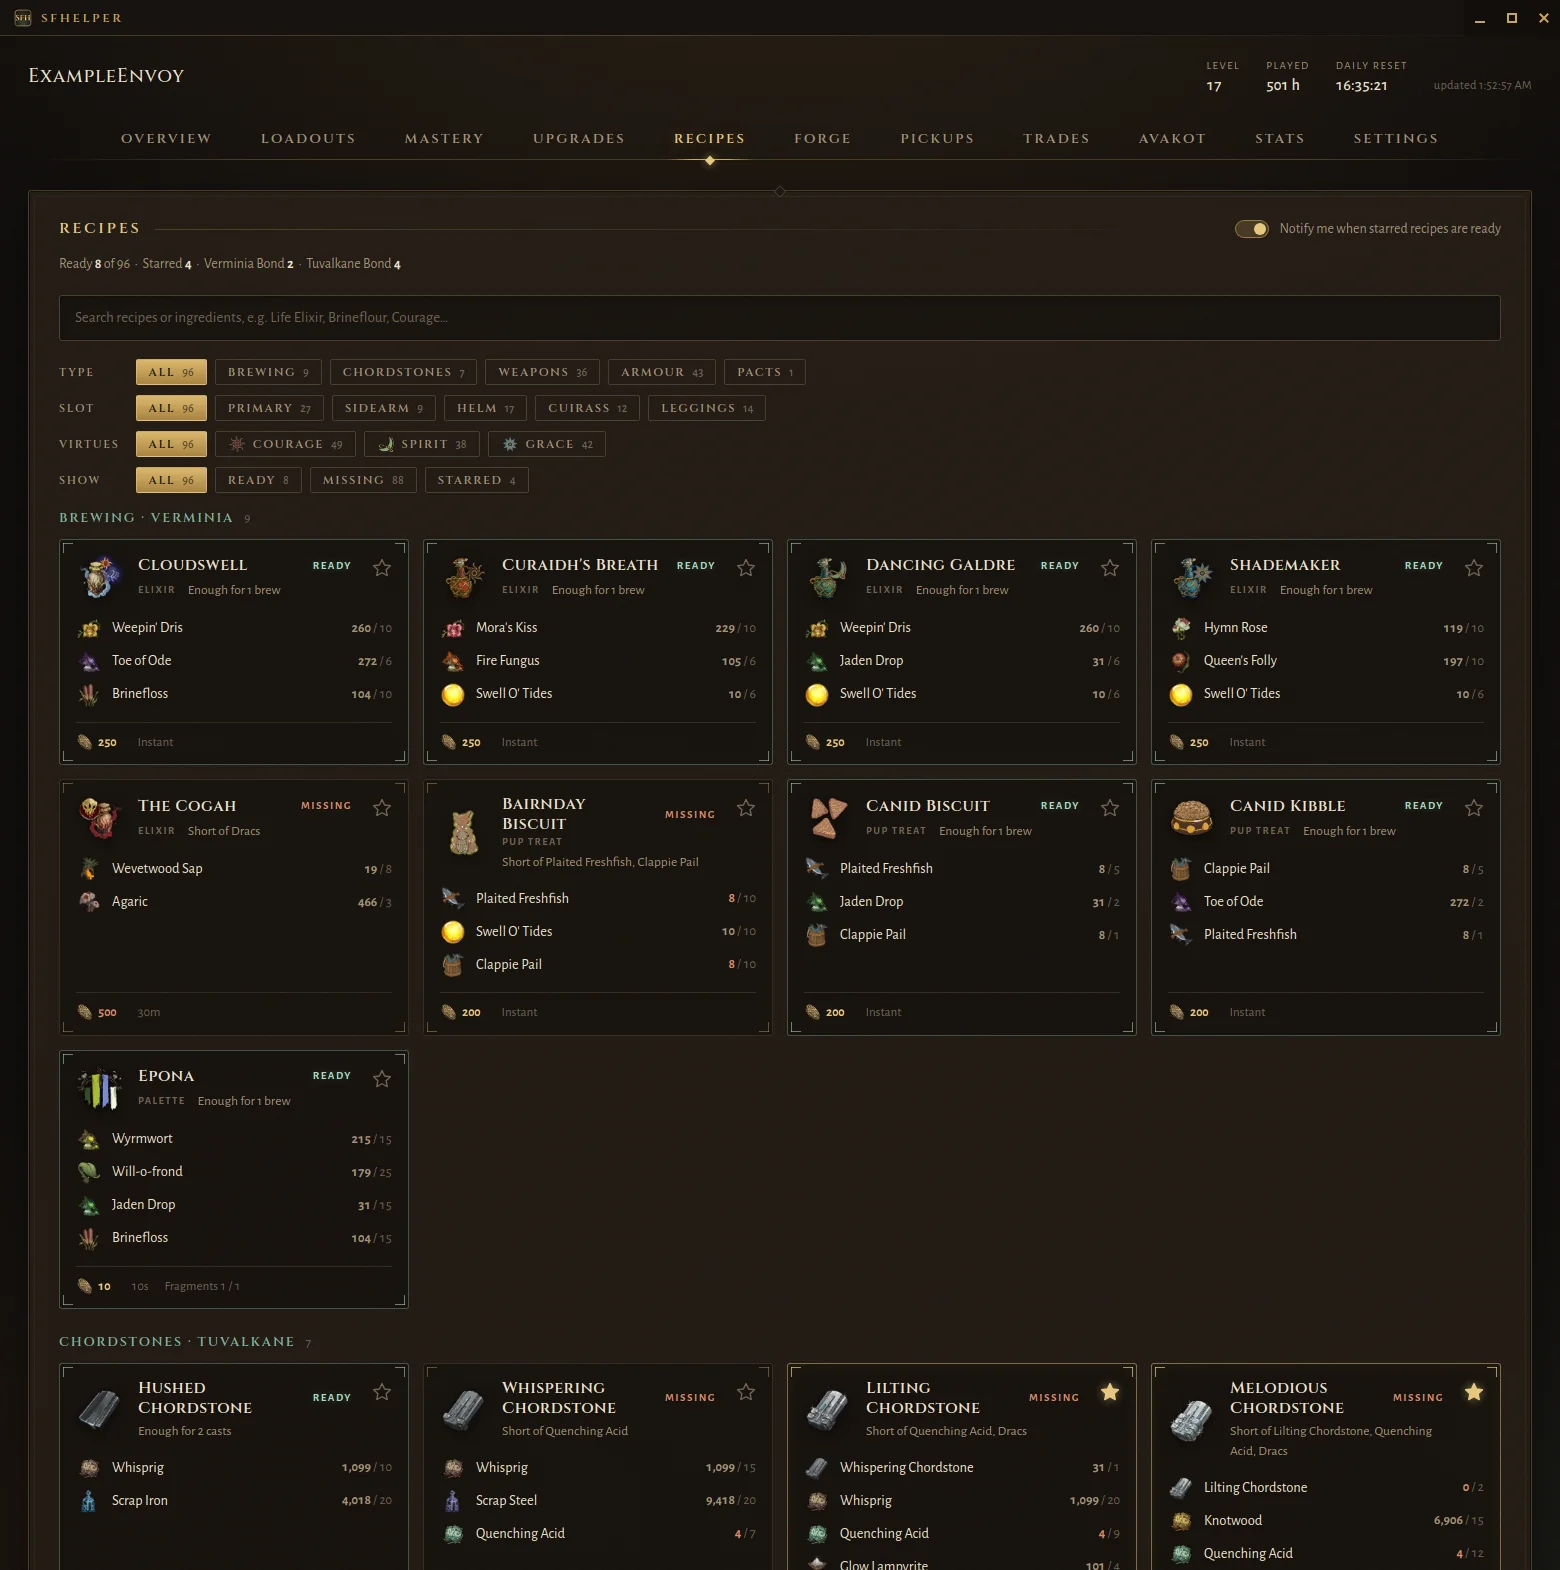
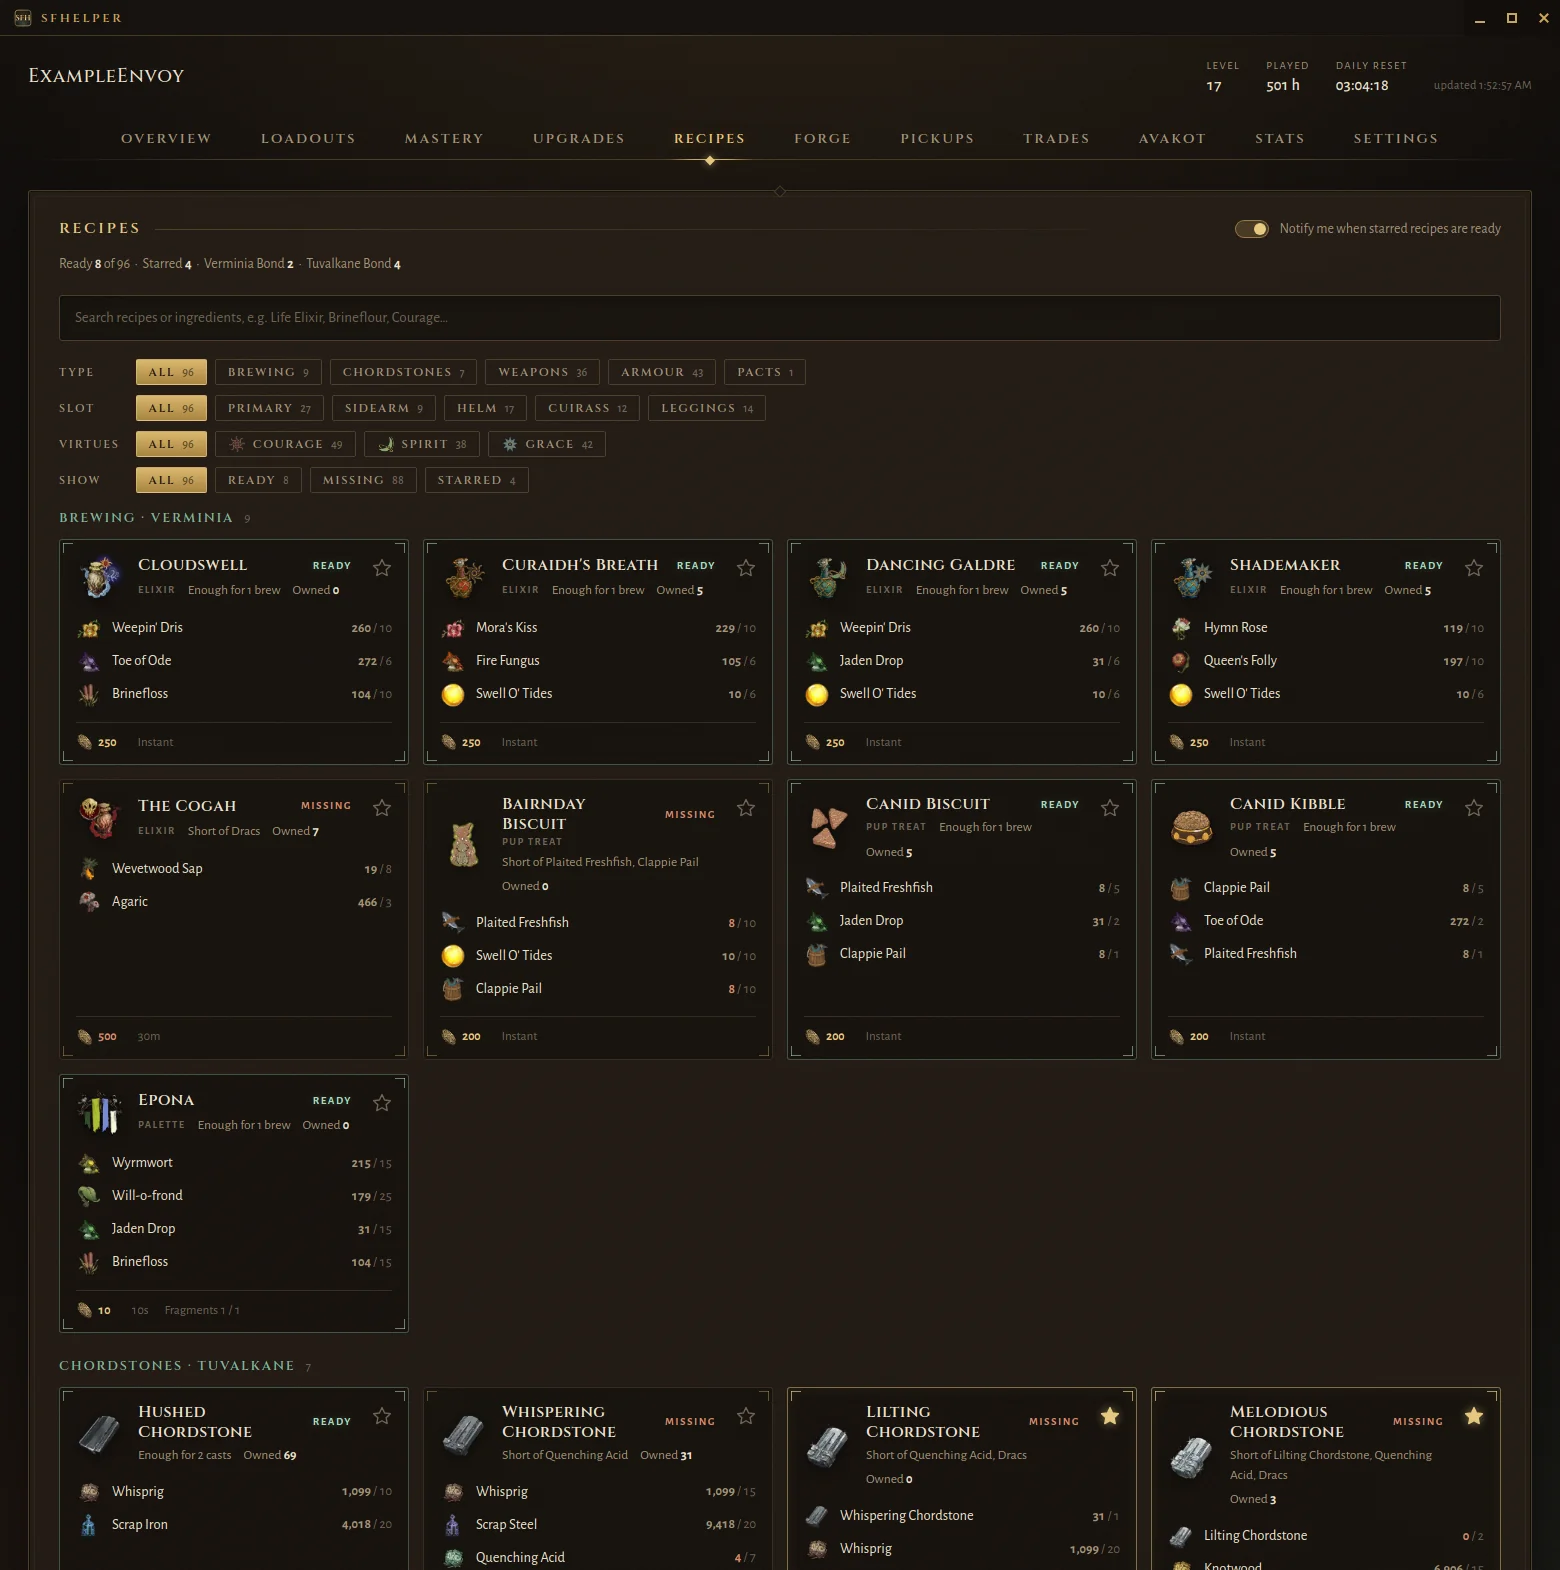
Added owned counts for crafted items to the Recipes tab

diff --git a/tests/recipes.test.ts b/tests/recipes.test.ts
@@ -100,13 +100,17 @@ describe("recipes from the game files", () => {
 });
 
 describe("what the inventory says about crafting", () => {
-  it("counts recipes, stock and Dracs, and shows Bond ranks as the game does", () => {
+  it("counts recipes, stock, copies held and Dracs, and shows Bond ranks as the game does", () => {
     const state = parseCrafting({
       RegularCredits: 2500,
       Recipes: [{ ItemType: "/R/Elixir", ItemCount: 1 }, { ItemType: "/R/Gone", ItemCount: 0 }],
       MiscItems: [{ ItemType: "/I/Sap", ItemCount: 4 }, { ItemType: "/I/Iron", ItemCount: 10 }],
       Consumables: [{ ItemType: "/I/Iron", ItemCount: 2 }],
-      Suits: [{ ItemType: "/SF/Souls/Bromius/BromiusSoul" }, { ItemType: "/SF/Souls/Bromius/BromiusSoul" }, { ItemType: "/SF/Souls/Fencer/FencerSoul" }],
+      Suits: [{ ItemType: "/SF/Souls/Fencer/FencerSoul" }],
+      Melee: [{ ItemType: "/SF/Weapons/Sword" }, { ItemType: "/SF/Weapons/Sword" }],
+      LongGuns: [{ ItemType: "/SF/Weapons/Bow" }],
+      WeaponSkins: [{ ItemType: "/SF/Upgrades/Skins/Helmets/Helm" }],
+      FlavourItems: [{ ItemType: "/SF/Types/Items/ColorPalettes/Epona" }],
       Ancestors: [
         { ItemType: "/SF/Types/Game/Ancestors/Verminia/VerminiaAncestor", Rank: 1 },
         { ItemType: "/SF/Types/Game/Ancestors/Tuvalkane/TuvalkaneAncestor", Rank: 3 },
@@ -119,7 +123,13 @@ describe("what the inventory says about crafting", () => {
       dracs: 2500,
       bond: { Verminia: 2, Tuvalkane: 4 },
       pending: [],
-      pacts: ["/SF/Souls/Bromius/BromiusSoul", "/SF/Souls/Fencer/FencerSoul"],
+      owned: {
+        "/SF/Souls/Fencer/FencerSoul": 1,
+        "/SF/Weapons/Sword": 2,
+        "/SF/Weapons/Bow": 1,
+        "/SF/Upgrades/Skins/Helmets/Helm": 1,
+        "/SF/Types/Items/ColorPalettes/Epona": 1,
+      },
     });
   });
 });
@@ -129,7 +139,7 @@ describe("starred recipes", () => {
     name: "Curaidh's Breath", station: "Brewing", kind: "Elixirs", result: "/R/Out", rarity: null, fragments: 1, consumed: false,
     gives: 1, dracs: 100, seconds: 0, ingredients: [{ type: "/I/Sap", name: "Sap", count: 2 }], desc: null, icon: null, bond: null, ...extra,
   });
-  const state = (extra: Partial<CraftingState>): CraftingState => ({ recipes: { "/R/A": 1 }, stock: { "/I/Sap": 5 }, dracs: 1000, bond: {}, pending: [], pacts: [], ...extra });
+  const state = (extra: Partial<CraftingState>): CraftingState => ({ recipes: { "/R/A": 1 }, stock: { "/I/Sap": 5 }, dracs: 1000, bond: {}, pending: [], owned: {}, ...extra });
 
   it("works out how many times a recipe can be crafted, as the Recipes tab does", () => {
     expect(recipeTimes("/R/A", def({}), state({}))).toBe(2);
@@ -146,11 +156,11 @@ describe("starred recipes", () => {
     const ready = state({ recipes: { "/R/A": 3 } });
     expect(recipeTimes("/R/A", pact, ready)).toBe(1);
     expect(pactBlock("/R/A", pact, ready)).toBeNull();
-    expect(pactBlock("/R/A", pact, { ...ready, pacts: ["/SF/Souls/Fencer/FencerSoul"] })).toBe("owned");
-    expect(recipeTimes("/R/A", pact, { ...ready, pacts: ["/SF/Souls/Fencer/FencerSoul"] })).toBe(0);
+    expect(pactBlock("/R/A", pact, { ...ready, owned: { "/SF/Souls/Fencer/FencerSoul": 1 } })).toBe("owned");
+    expect(recipeTimes("/R/A", pact, { ...ready, owned: { "/SF/Souls/Fencer/FencerSoul": 1 } })).toBe(0);
     expect(pactBlock("/R/A", pact, { ...ready, pending: [{ id: "x", recipe: "/R/A", completes: 1 }] })).toBe("curing");
     expect(recipeTimes("/R/A", pact, { ...ready, pending: [{ id: "x", recipe: "/R/A", completes: 1 }] })).toBe(0);
-    expect(pactBlock("/R/A", def({}), { ...ready, pacts: ["/R/Out"] })).toBeNull();
+    expect(pactBlock("/R/A", def({}), { ...ready, owned: { "/R/Out": 1 } })).toBeNull();
     expect(recipeVerb(pact)).toBe("forge");
   });
 

diff --git a/src/server/public/index.html b/src/server/public/index.html
@@ -2929,7 +2929,7 @@
         r.station === "Brewing" ? (n === 1 ? "brew" : "brews") : isGear(r) ? (n === 1 ? "build" : "builds") : r.kind === "Pacts" ? (n === 1 ? "forge" : "forges") : n === 1 ? "cast" : "casts";
       // A Pact the Foundry won't forge: you already own it, or one is curing now.
       const pactBlock = (type, r, c) =>
-        r.kind !== "Pacts" ? null : (c.pacts || []).includes(r.result) ? "owned" : (c.pending || []).some((p) => p.recipe === type) ? "curing" : null;
+        r.kind !== "Pacts" ? null : ((c.owned || {})[r.result] || 0) > 0 ? "owned" : (c.pending || []).some((p) => p.recipe === type) ? "curing" : null;
       function craftTime(sec) {
         if (!sec) return "Instant";
         const h = Math.floor(sec / 3600), m = Math.floor((sec % 3600) / 60);
@@ -2948,7 +2948,10 @@
         if (r.dracs > c.dracs) missing.push("Dracs");
         if (fragments < r.fragments) missing.push("Fragments");
         const block = pactBlock(type, r, c);
-        return { have, fragments, times, locked, block, missing, ready: !locked && !block && times > 0 };
+        // How many of the finished item you hold: stacked items (Elixirs, Chordstones)
+        // are in stock, copies of Pacts, weapons, armour and palettes in owned.
+        const owned = (c.stock[r.result] || 0) + ((c.owned || {})[r.result] || 0);
+        return { have, fragments, times, locked, block, owned, missing, ready: !locked && !block && times > 0 };
       }
       function recipeCard(o, c) {
         const { type, r, s } = o;
@@ -2981,7 +2984,7 @@
         return `<div class="rcard${s.ready ? " ready" : ""}${starred ? " starred" : ""}"><div class="rtop">` +
           `<div class="rhead poprow" data-kind="recipe" data-type="${escHtml(type)}">${upIcon(r.icon)}` +
           `<div class="avname">${escHtml(r.name)}${r.gives > 1 ? `<span class="rgive">×${r.gives}</span>` : ""}</div>${state}` +
-          `<div class="avmeta">${kind}<span>${meta}</span></div></div>` +
+          `<div class="avmeta">${kind}<span>${meta}</span>${s.block === "owned" ? "" : `<span class="avown">Owned <b>${fmt(s.owned)}</b></span>`}</div></div>` +
           `<button class="star${starred ? " on" : ""}" data-recipe="${escHtml(type)}" aria-pressed="${starred}" title="${tip}" aria-label="${escHtml(r.name)}">${STAR_SVG}</button></div>` +
           `<ul class="rings">${ings}</ul><div class="tradesub">${foot}</div></div>`;
       }

diff --git a/src/server/recipes.ts b/src/server/recipes.ts
@@ -7,9 +7,10 @@ export interface CraftingState {
   dracs: number;
   bond: Record<string, number>;
   pending: PendingCraft[];
-  // The Pacts you own. The Foundry won't forge a Pact you already have
-  // ("Already Owned"), so those recipes can't be crafted.
-  pacts: string[];
+  // Copies held of things that don't stack: Pacts, weapons, armour and palettes
+  // (stacked items like Elixirs and Chordstones are in stock). Recipes show it as
+  // "Owned", and the Foundry won't forge a Pact you already have ("Already Owned").
+  owned: Record<string, number>;
 }
 
 export interface PendingCraft {
@@ -22,6 +23,20 @@ type Entry = { ItemType?: unknown; ItemCount?: unknown; Rank?: unknown };
 
 const entries = (v: unknown): Entry[] => (Array.isArray(v) ? v.filter((e): e is Entry => !!e && typeof e === "object") : []);
 const ANCESTOR_RE = /\/Ancestors\/(\w+)\/\w+Ancestor$/;
+
+const COPY_LISTS = ["Suits", "Melee", "LongGuns", "Pistols", "WeaponSkins", "FlavourItems"] as const;
+
+function copies(raw: Record<string, unknown>): Record<string, number> {
+  const out: Record<string, number> = {};
+  for (const key of COPY_LISTS) {
+    for (const e of entries(raw[key])) {
+      if (typeof e.ItemType !== "string") continue;
+      const n = typeof e.ItemCount === "number" ? e.ItemCount : 1;
+      if (n > 0) out[e.ItemType] = (out[e.ItemType] ?? 0) + n;
+    }
+  }
+  return out;
+}
 
 function counts(list: unknown, into: Record<string, number> = {}): Record<string, number> {
   for (const e of entries(list)) {
@@ -44,7 +59,7 @@ export function parseCrafting(raw: Record<string, unknown>): CraftingState {
     dracs: typeof raw.RegularCredits === "number" ? raw.RegularCredits : 0,
     bond,
     pending: parsePendingCrafts(raw.PendingRecipes),
-    pacts: [...new Set(entries(raw.Suits).map((e) => e.ItemType).filter((t): t is string => typeof t === "string"))],
+    owned: copies(raw),
   };
 }
 
@@ -91,7 +106,7 @@ const isGear = (r: RecipeDef): boolean => r.kind === "Weapons" || r.kind === "Ar
 // own that Pact, or it's curing at the Foundry right now.
 export function pactBlock(type: string, r: RecipeDef, c: CraftingState): "owned" | "curing" | null {
   if (r.kind !== "Pacts") return null;
-  if ((c.pacts ?? []).includes(r.result)) return "owned";
+  if ((c.owned?.[r.result] ?? 0) > 0) return "owned";
   return c.pending.some((p) => p.recipe === type) ? "curing" : null;
 }
 

diff --git a/README.md b/README.md
@@ -18,7 +18,7 @@ Runs on **Linux** (AppImage) and **Windows** (installer).
 | **Loadouts** | Each loadout's Pact (with its Pact Arts tree), weapons, Runes, Totems by slot, Tempers and Joinery (e.g. *Gildaur: Thrice Blessed by Mora*), plus its armour (Helm, Cuirass, Leggings, with defence and Virtue requirements) and Talisman. Virtue totals match the Arsenal, with a breakdown: allocated points, Pact Arts, Talisman and Fables. Pact Arts show the game's own numbers (e.g. Forestall's chance to survive). Loadouts can be shared as short `SFH1:` codes; paste one and press Enter or Import. |
 | **Mastery** | Your Envoy Rank, your Mastery and progress to the next rank, and the patch's maximum rank. Every weapon and Pact shows its in-game icon and its rank out of 30, from the game's own Mastery record, so a re-crafted weapon still counts. Filter by owned, mastered and type (Primary, Sidearm or Pacts). Discoveries lists every place by its in-game name and region, whether you've found it and the Memories found there, with a search and a filter by region or dungeon. |
 | **Upgrades** | Split into Tempers, Runes, Joineries, Gear and Totems tabs. Tuvalkane temper learning, with each Temper's exact numbers from the game files (per weapon type where they differ) and a sort by Origin; your Runes by weapon art with their rank (1 to 4), the Totem slot they add and their numbers at that rank; your Joineries by metal and blessing, filterable by Virtue and blessing, with how many Attunement Pips each adds on hover; your Gear, with what's equipped and the numbers the game gives (e.g. a Virtue Elixir's +10 for an hour), filterable by type (Virtue Elixirs among them) and lures by Habitat and Nature (e.g. Lake, Bottom Feeder); and your Totems with Virtue / grip / type / trigger filters. Click a Totem's rank diamonds to see its numbers at any rank. Each subtab has the game's own icon, a search and a Sort by menu (e.g. Runes by weapon, Totem slot, name, rank or copies; Joineries by metal, Virtue, blessing, name or count). |
-| **Recipes** | Everything you can brew with the Witch Verminia (Elixirs, Pup Treats and Palettes), the Chordstones Tuvalkane casts, the weapons and armour you can craft, and the Pacts Tuvalkane forges from Pact Fragments: each recipe's ingredients against what you have, what you're short of, the Dracs and time it takes, and the Bond rank it needs. A Pact you already own, or one that's curing, is marked as such, since the game won't forge a second. Search by recipe or ingredient, and filter by type, slot, Virtue, or by what's ready to make. Star a recipe to get a desktop notification once you have everything for it. |
+| **Recipes** | Everything you can brew with the Witch Verminia (Elixirs, Pup Treats and Palettes), the Chordstones Tuvalkane casts, the weapons and armour you can craft, and the Pacts Tuvalkane forges from Pact Fragments: each recipe's ingredients against what you have, what you're short of, how many of the finished item you already own, the Dracs and time it takes, and the Bond rank it needs. A Pact you already own, or one that's curing, is marked as such, since the game won't forge a second. Search by recipe or ingredient, and filter by type, slot, Virtue, or by what's ready to make. Star a recipe to get a desktop notification once you have everything for it. |
 | **Forge** | What you're crafting with Tuvalkane or Verminia, using the game's own words: each craft's curing time and how long is left (Ready To Claim, In Progress). Get a desktop notification when a craft is ready to claim. Temper Plans: every weapon you own, from Stock to Legendary, with its craftwork, rank and Tempers, plus the weapons you don't own yet (greyed out). Plan the 8 Temper slots a Legendary weapon holds (only Tempers that fit the weapon are offered) and see which planned Tempers are already struck, which still need striking, and which Tempers on the weapon aren't in the plan. Choose from every Temper or only the ones Tuvalkane has learned; planned Tempers you haven't learned yet are marked. Search by weapon or Temper, sort by craftwork, Tempers struck, rank, weapon type or name, and filter to owned, unowned or planned weapons. |
 | **Pickups** | Weapons you've picked up, with their in-game pictures and times taken from the game's log. Optional desktop notifications for Moonsteel finds. Pickup and trade history is kept on your computer; export it to move it to a new install. |
 | **Trades** | Your trade history, one card per trade: who you traded with, what you received and gave, with in-game icons (weapons with their craftwork and tempers), and the Scutage paid, worked out from the game's own tax table (220, 440 or 880 Dracs for each Common, Uncommon or Rare item you receive). Plus how many trades you have left today. |
